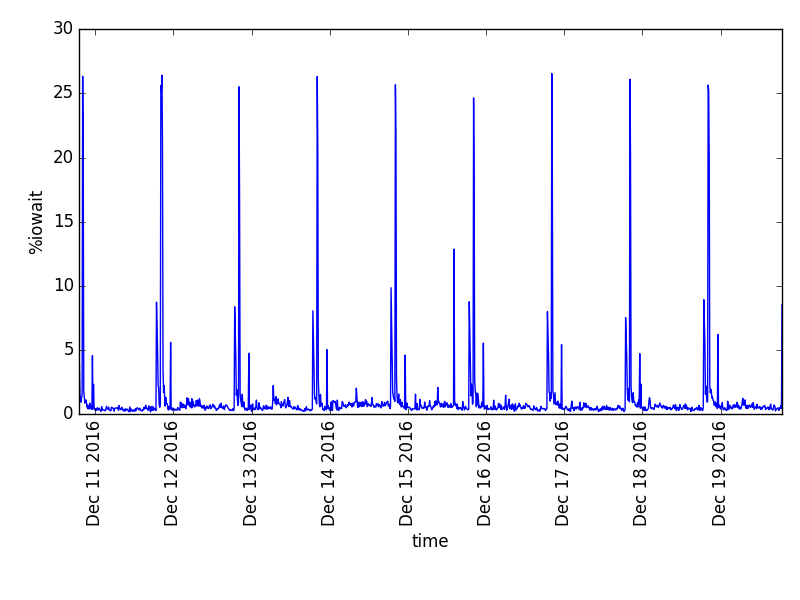
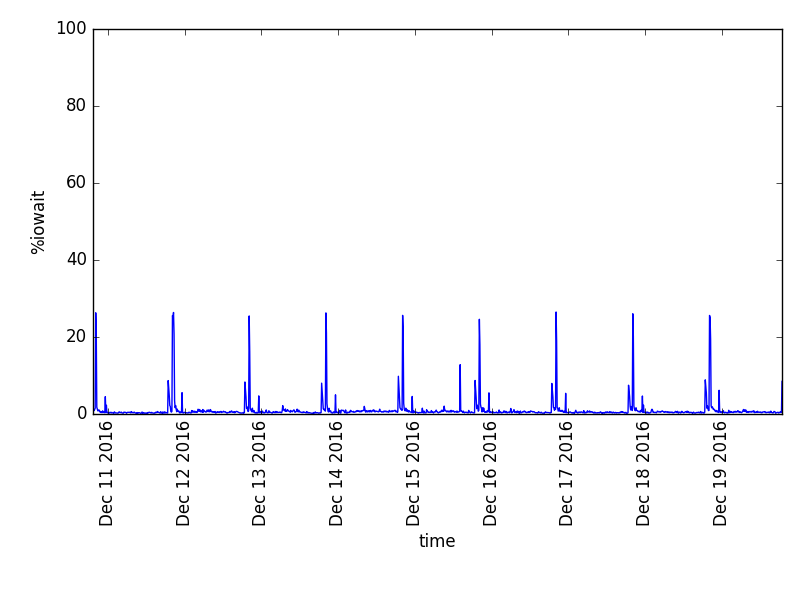
Final drop

Changed region(s): [[0.0312, 0.03, 1.0, 0.93]]

diff --git a/sar_plotter.py b/sar_plotter.py
@@ -21,6 +21,9 @@ def plot_all_the_things(l,n,e):
         y = np.array([item[1+i] for item in l])
         x = np.array([datetime.fromtimestamp(item[0]) for item in l])
 
+        if '%' in e[i]:
+            plt.ylim([0,100])
+
         plt.plot(x,y)
         plt.xlabel('time')
         plt.xticks(rotation=90)
